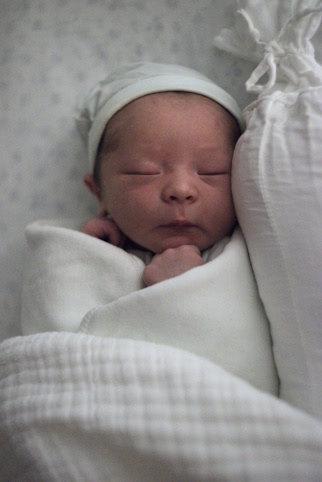
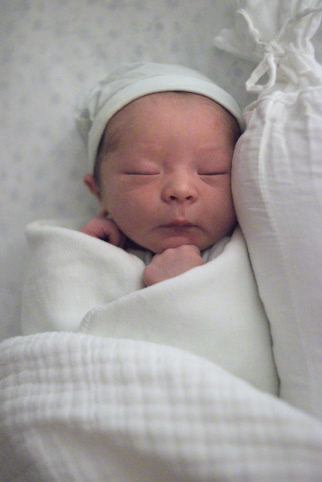
added 2 to birth

diff --git a/birth.html b/birth.html
@@ -23,7 +23,7 @@
 
 <div><a href="images/birth/DSC00033__default_2_0.00_0.00.jpg.html"><img src="thumbs/birth/DSC00033__default_2_0.00_0.00.jpg"></a></div>
 
-<div><a href="images/birth/DSC00010__default_4_0.00_0.00.jpg.html"><img src="thumbs/birth/DSC00010__default_4_0.00_0.00.jpg"></a></div>
+<div><a href="images/birth/DSC00010__default_4_0.15_-0.20.jpg.html"><img src="thumbs/birth/DSC00010__default_4_0.15_-0.20.jpg"></a></div>
 
 <div><a href="images/birth/DSC00077__default_0_0.00_0.00.jpg.html"><img src="thumbs/birth/DSC00077__default_0_0.00_0.00.jpg"></a></div>
 
@@ -47,9 +47,13 @@
 
 <div><a href="images/birth/DSC00188__default_2_0.00_0.00.jpg.html"><img src="thumbs/birth/DSC00188__default_2_0.00_0.00.jpg"></a></div>
 
-<div><a href="images/birth/DSC00220__default_0_0.00_0.00.jpg.html"><img src="thumbs/birth/DSC00220__default_0_0.00_0.00.jpg"></a></div>
+<div><a href="images/birth/DSC00220__default_0_0.04_0.08.jpg.html"><img src="thumbs/birth/DSC00220__default_0_0.04_0.08.jpg"></a></div>
 
 <div><a href="images/birth/IMG_1170_na.jpg.html"><img src="thumbs/birth/IMG_1170_na.jpg"></a></div>
+
+<div><a href="images/birth/DSC00260__default_3_0.08_0.00.jpg.html"><img src="thumbs/birth/DSC00260__default_3_0.08_0.00.jpg"></a></div>
+
+<div><a href="images/birth/DSC00264__default_3_0.08_0.00.jpg.html"><img src="thumbs/birth/DSC00264__default_3_0.08_0.00.jpg"></a></div>
 
 </div>
 

diff --git a/images/birth/DSC00010__default_4_0.15_-0.20.jpg.html b/images/birth/DSC00010__default_4_0.15_-0.20.jpg.html
@@ -10,7 +10,7 @@
 </head>
 <body>
 <div class="main">
-<a href="DSC00077__default_0_0.00_0.00.jpg.html"><img class="single-img" src="DSC00010__default_4_0.00_0.00.jpg"></a>
+<a href="DSC00077__default_0_0.00_0.00.jpg.html"><img class="single-img" src="DSC00010__default_4_0.15_-0.20.jpg"></a>
 </div>
 </body>
 </html>

diff --git a/images/birth/DSC00033__default_2_0.00_0.00.jpg.html b/images/birth/DSC00033__default_2_0.00_0.00.jpg.html
@@ -10,7 +10,7 @@
 </head>
 <body>
 <div class="main">
-<a href="DSC00010__default_4_0.00_0.00.jpg.html"><img class="single-img" src="DSC00033__default_2_0.00_0.00.jpg"></a>
+<a href="DSC00010__default_4_0.15_-0.20.jpg.html"><img class="single-img" src="DSC00033__default_2_0.00_0.00.jpg"></a>
 </div>
 </body>
 </html>

diff --git a/images/birth/DSC00188__default_2_0.00_0.00.jpg.html b/images/birth/DSC00188__default_2_0.00_0.00.jpg.html
@@ -10,7 +10,7 @@
 </head>
 <body>
 <div class="main">
-<a href="DSC00220__default_0_0.00_0.00.jpg.html"><img class="single-img" src="DSC00188__default_2_0.00_0.00.jpg"></a>
+<a href="DSC00220__default_0_0.04_0.08.jpg.html"><img class="single-img" src="DSC00188__default_2_0.00_0.00.jpg"></a>
 </div>
 </body>
 </html>

diff --git a/images/birth/DSC00260__default_3_0.08_0.00.jpg.html b/images/birth/DSC00260__default_3_0.08_0.00.jpg.html
@@ -10,7 +10,7 @@
 </head>
 <body>
 <div class="main">
-<a href="DSC00164__default_0_0.00_0.00.jpg.html"><img class="single-img" src="DSC00151__default_0_0.00_0.00.jpg"></a>
+<a href="DSC00264__default_3_0.08_0.00.jpg.html"><img class="single-img" src="DSC00260__default_3_0.08_0.00.jpg"></a>
 </div>
 </body>
 </html>

diff --git a/images/birth/DSC00220__default_0_0.04_0.08.jpg.html b/images/birth/DSC00220__default_0_0.04_0.08.jpg.html
@@ -10,7 +10,7 @@
 </head>
 <body>
 <div class="main">
-<a href="DSC00935__default_3_0.00_0.00.jpg.html"><img class="single-img" src="DSC00923__default_3_0.07_-0.20.jpg"></a>
+<a href="IMG_1170_na.jpg.html"><img class="single-img" src="DSC00220__default_0_0.04_0.08.jpg"></a>
 </div>
 </body>
 </html>

diff --git a/images/birth/DSC00264__default_3_0.08_0.00.jpg.html b/images/birth/DSC00264__default_3_0.08_0.00.jpg.html
@@ -10,7 +10,7 @@
 </head>
 <body>
 <div class="main">
-<a href="DSC00010__default_3_0.00_0.00.jpg.html"><img class="single-img" src="DSC00033__default_0_0.00_0.00.jpg"></a>
+<a href="../../birth.html"><img class="single-img" src="DSC00264__default_3_0.08_0.00.jpg"></a>
 </div>
 </body>
 </html>

diff --git a/images/birth/IMG_1170_na.jpg.html b/images/birth/IMG_1170_na.jpg.html
@@ -10,7 +10,7 @@
 </head>
 <body>
 <div class="main">
-<a href="../../birth.html"><img class="single-img" src="IMG_1170_na.jpg"></a>
+<a href="DSC00260__default_3_0.08_0.00.jpg.html"><img class="single-img" src="IMG_1170_na.jpg"></a>
 </div>
 </body>
 </html>
